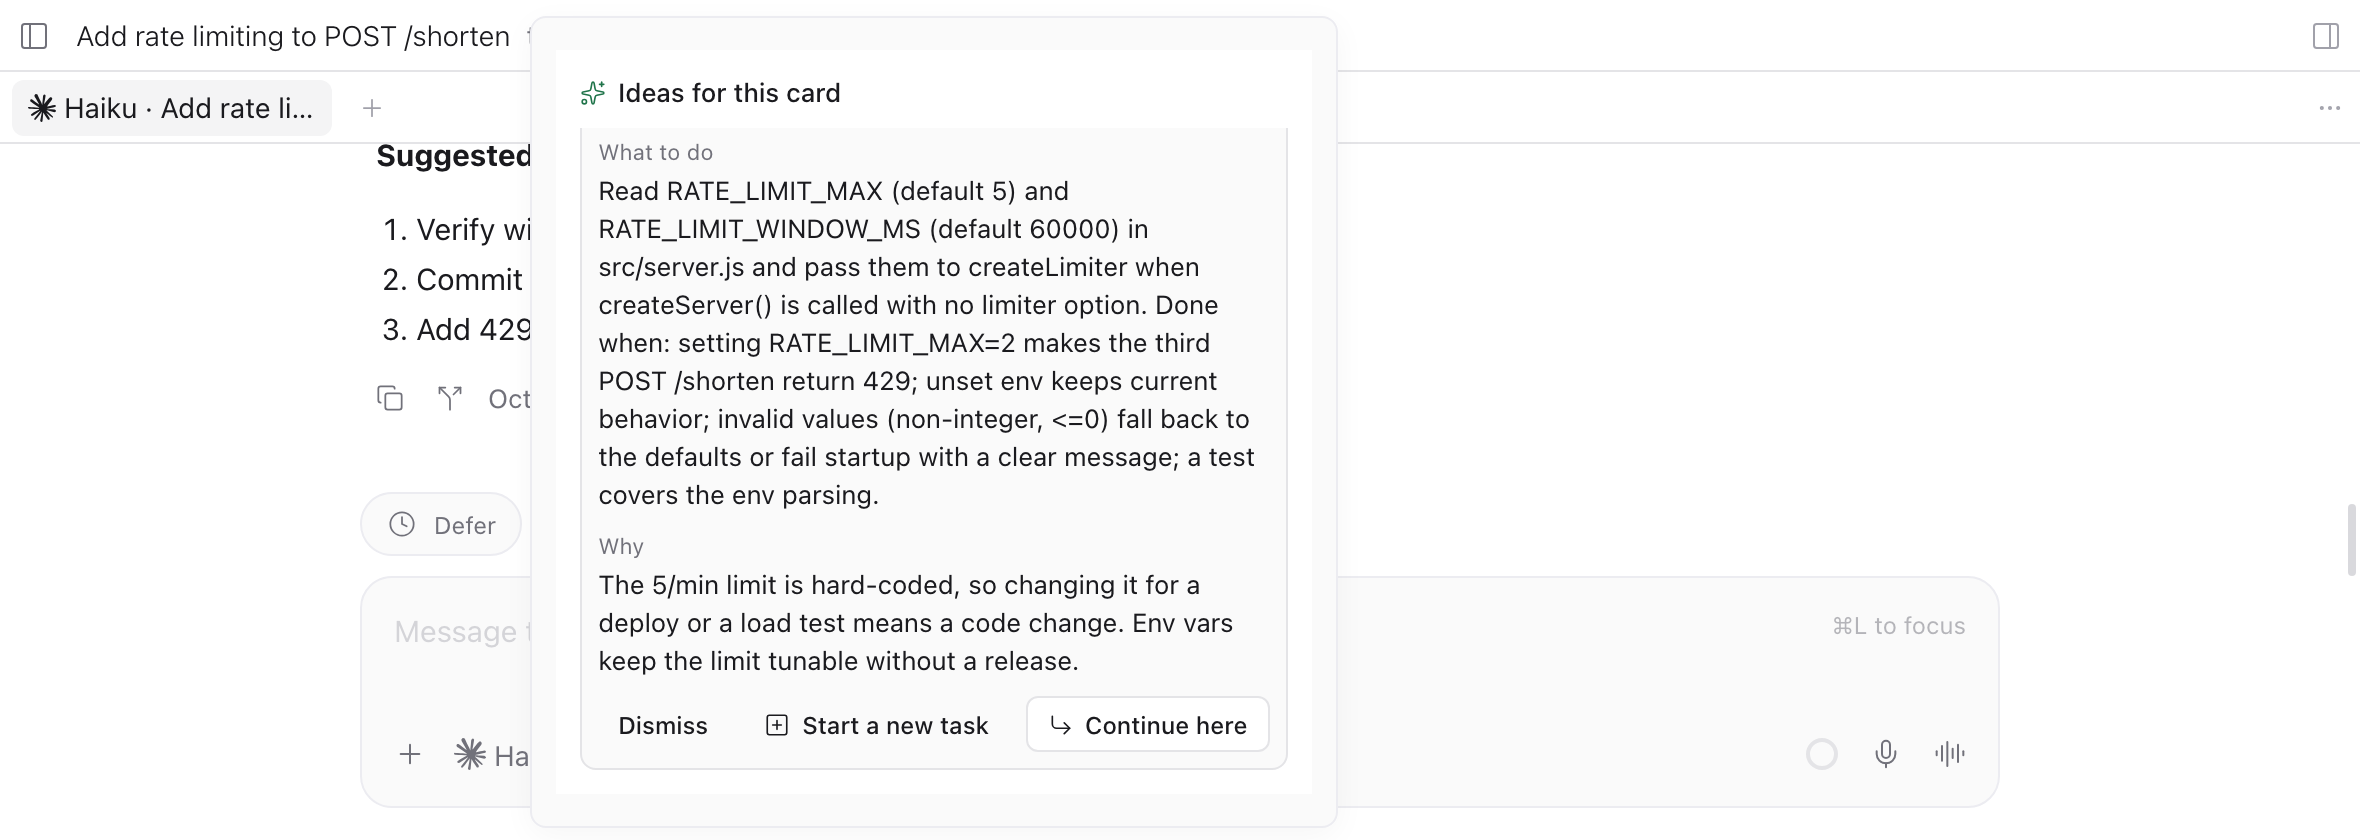
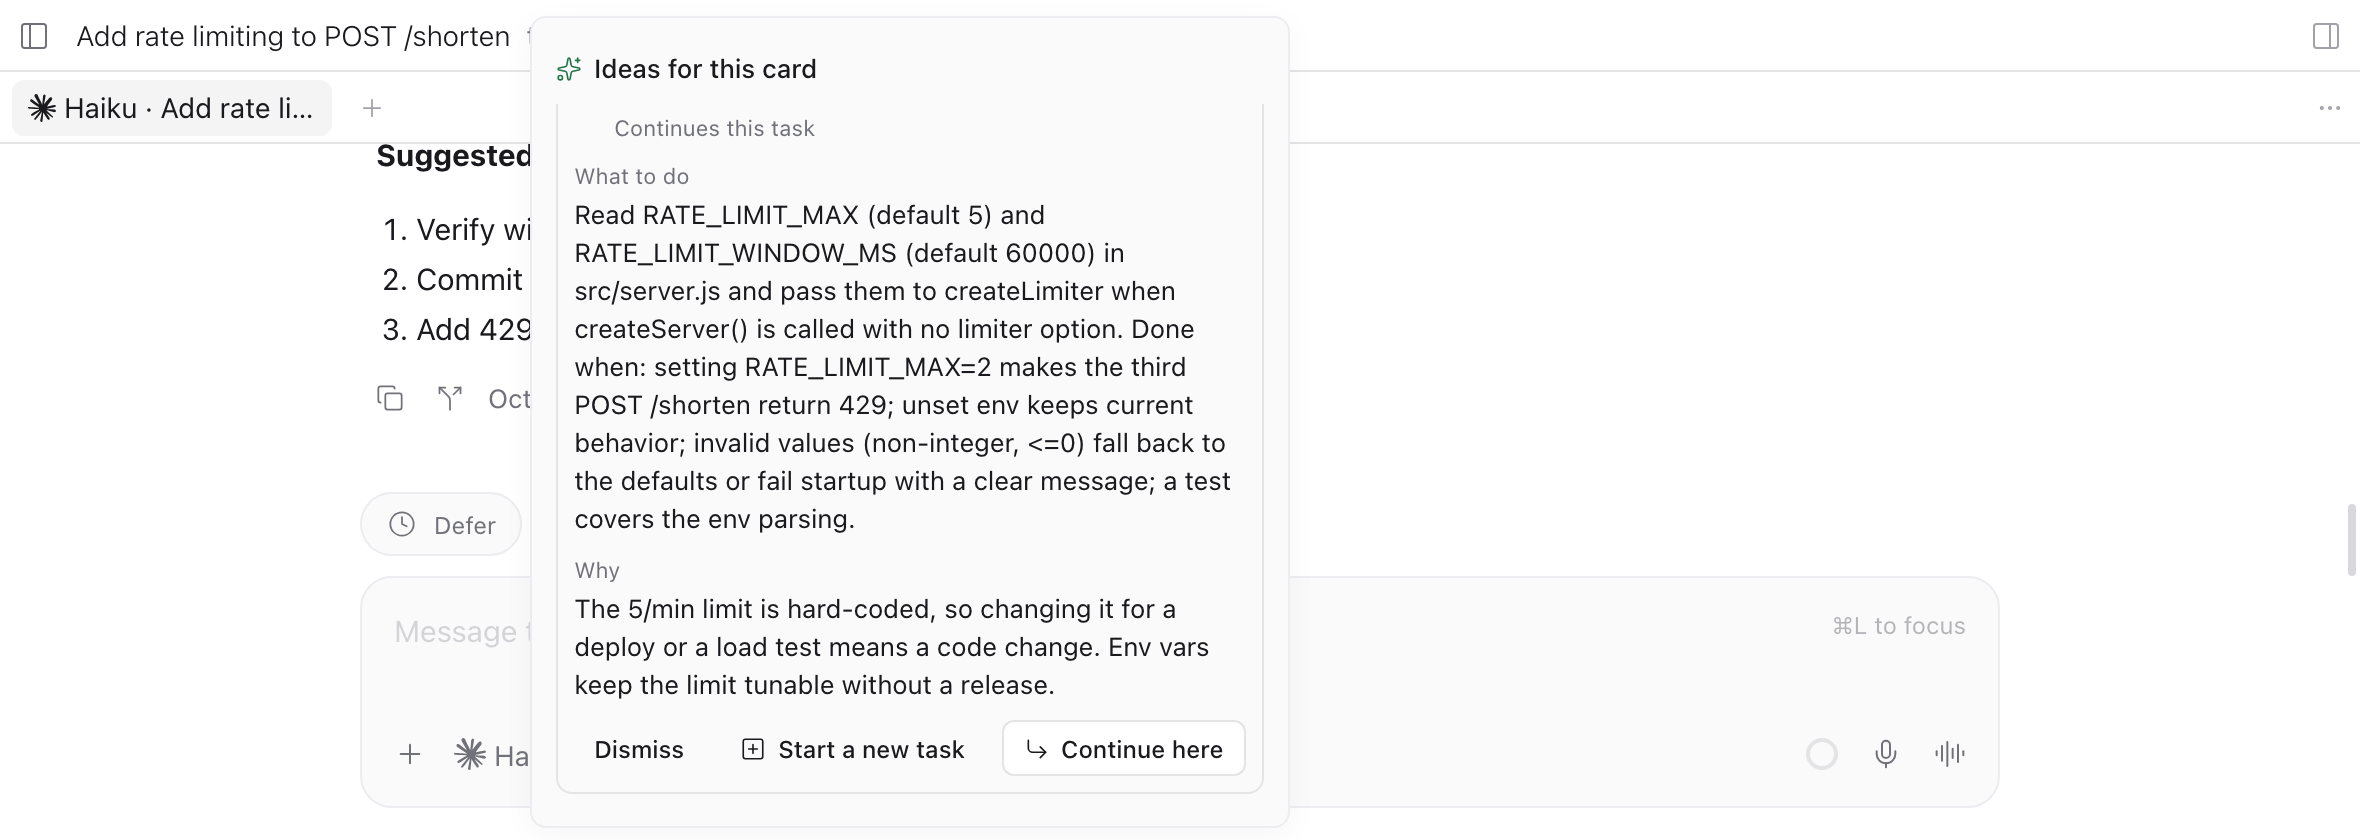
fix: Ideas popover is one layer with the host's
The host's popover surface already draws the background, border and padding,
so Flowly's body no longer adds its own background and padding (on wide
layouts it showed as a box inside the popover). The title row stays on the
wide popover only; the phone sheet already shows the button's title in its
header, so Flowly no longer repeats it. The verification script gains a
phone-width sheet case.

Changed region(s): [[0.2165, 0.0619, 0.5258, 0.9286]]

diff --git a/client/native-popovers.tsx b/client/native-popovers.tsx
@@ -35,28 +35,25 @@ function Frame({ props, title, children }: { props: PluginButtonContentProps; ti
 // The host's popover surface scrolls on its own (PluginPopoverSurface: at most 440 tall and 16 short of the window;
 // its menu page pads 4 and the plugin content 12, above and below). Kept just inside that, the outer layer never
 // overflows, so only the list under the header scrolls and the mouse wheel has a single target. The phone sheet
-// scrolls as a whole.
+// scrolls as a whole and already shows the button's title in its header. The host draws the surface and its
+// padding, so the body adds neither.
 const hostPopoverMax = 440;
 const hostPopoverPadding = 32;
 function Body({ title, sheet, children }: { title: string; sheet: boolean; children: React.ReactNode }) {
-  const { colors } = useTheme();
   const windowHeight = useWindowDimensions().height;
-  const content = <View style={{ paddingHorizontal: space[3], paddingBottom: space[3], gap: space[2] }}>{children}</View>;
+  const content = <View style={{ gap: space[2] }}>{children}</View>;
+  if (sheet) return content;
   return (
-    <View style={{ width: "100%", maxWidth: 420, maxHeight: sheet ? undefined : Math.min(hostPopoverMax, windowHeight - 16) - hostPopoverPadding, backgroundColor: colors.surface0 }}>
-      <View style={{ flexDirection: "row", alignItems: "center", gap: space[1.5], paddingHorizontal: space[3], paddingTop: space[3], paddingBottom: space[2] }}>
+    <View style={{ width: "100%", maxWidth: 420, maxHeight: Math.min(hostPopoverMax, windowHeight - 16) - hostPopoverPadding, gap: space[2] }}>
+      <View style={{ flexDirection: "row", alignItems: "center", gap: space[1.5] }}>
         <AiMark />
         <Label medium size={font.md} selectable={false}>
           {title}
         </Label>
       </View>
-      {sheet ? (
-        content
-      ) : (
-        <ScrollView {...verticalScroll} style={{ flexGrow: 0, flexShrink: 1 }} keyboardShouldPersistTaps="handled">
-          {content}
-        </ScrollView>
-      )}
+      <ScrollView {...verticalScroll} style={{ flexGrow: 0, flexShrink: 1 }} keyboardShouldPersistTaps="handled">
+        {content}
+      </ScrollView>
     </View>
   );
 }
